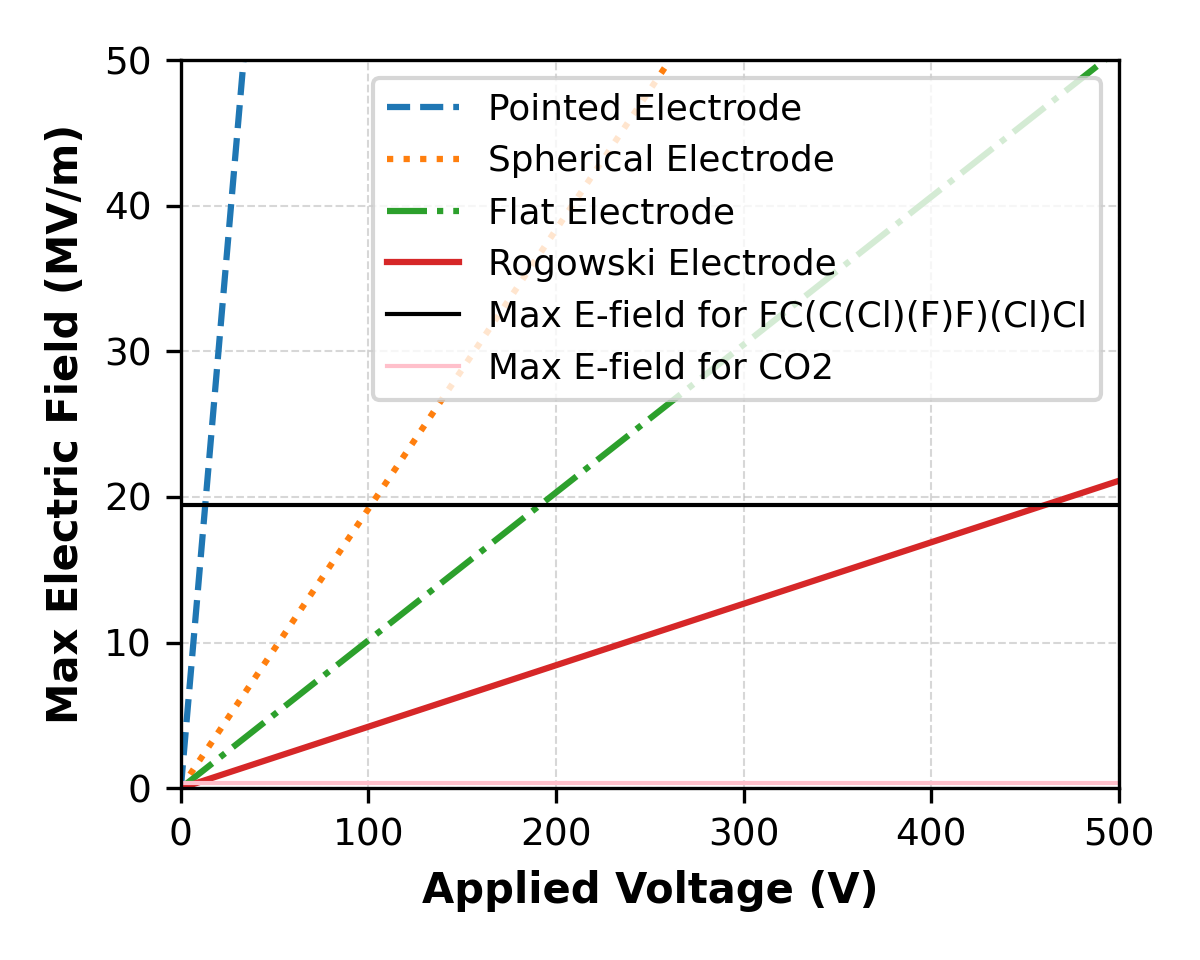
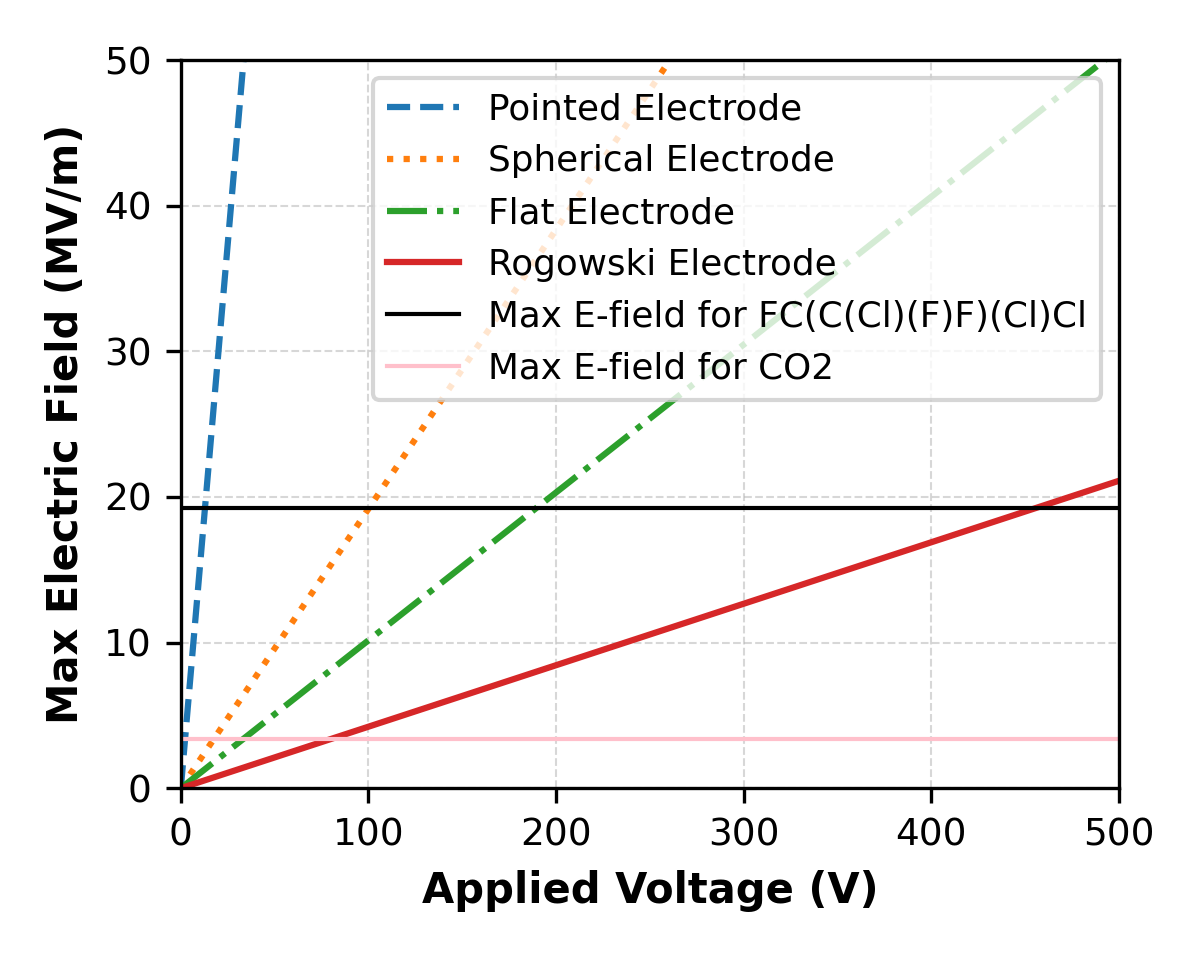
updated comsol plot

Changed region(s): [[0.1542, 0.8125, 0.925, 0.8438], [0.1542, 0.75, 0.925, 0.7812], [0.1542, 0.5, 0.925, 0.5312]]

diff --git a/src/combined_postprocessing.py b/src/combined_postprocessing.py
@@ -2,126 +2,126 @@ import pandas as pd
 import matplotlib.pyplot as plt
 import numpy as np
 
-# -----------------Evaluates the results of the RF and NN models -------------------------------------
-# Load both prediction files
-df_rf = pd.read_csv("./results/rf_test_rmse_per_loop_6_2.csv")
-df_nn = pd.read_csv("./results/nn_test_rmse_per_loop.csv")
+# # -----------------Evaluates the results of the RF and NN models -------------------------------------
+# # Load both prediction files
+# df_rf = pd.read_csv("./results/rf_test_rmse_per_loop_6_2.csv")
+# df_nn = pd.read_csv("./results/nn_test_rmse_per_loop.csv")
 
-# Find the minimum and maximum Test_RMSE for both models and the corresponding rows
-min_rf_test_rmse = np.min(df_rf["Test_RMSE"])
-min_nn_test_rmse = np.min(df_nn["Test_RMSE"])
-max_rf_test_rmse = np.max(df_rf["Test_RMSE"])
-max_nn_test_rmse = np.max(df_nn["Test_RMSE"])
+# # Find the minimum and maximum Test_RMSE for both models and the corresponding rows
+# min_rf_test_rmse = np.min(df_rf["Test_RMSE"])
+# min_nn_test_rmse = np.min(df_nn["Test_RMSE"])
+# max_rf_test_rmse = np.max(df_rf["Test_RMSE"])
+# max_nn_test_rmse = np.max(df_nn["Test_RMSE"])
 
-min_rf_rmse_row = df_rf.loc[df_rf["Test_RMSE"].idxmin()]
-min_nn_rmse_row = df_nn.loc[df_nn["Test_RMSE"].idxmin()]
-max_rf_rmse_row = df_rf.loc[df_rf["Test_RMSE"].idxmax()]
-max_nn_rmse_row = df_nn.loc[df_nn["Test_RMSE"].idxmax()]
+# min_rf_rmse_row = df_rf.loc[df_rf["Test_RMSE"].idxmin()]
+# min_nn_rmse_row = df_nn.loc[df_nn["Test_RMSE"].idxmin()]
+# max_rf_rmse_row = df_rf.loc[df_rf["Test_RMSE"].idxmax()]
+# max_nn_rmse_row = df_nn.loc[df_nn["Test_RMSE"].idxmax()]
 
-# Find the average Test_RMSE and R² for both models
-avg_rf_test_rmse = np.mean(df_rf["Test_RMSE"])
-avg_nn_test_rmse = np.mean(df_nn["Test_RMSE"])
-avg_rf_r2 = np.mean(df_rf["R2_Test"])
-avg_nn_r2 = np.mean(df_nn["R2_Train"])
+# # Find the average Test_RMSE and R² for both models
+# avg_rf_test_rmse = np.mean(df_rf["Test_RMSE"])
+# avg_nn_test_rmse = np.mean(df_nn["Test_RMSE"])
+# avg_rf_r2 = np.mean(df_rf["R2_Test"])
+# avg_nn_r2 = np.mean(df_nn["R2_Train"])
 
-median_rf_test_rmse = np.median(df_rf["Test_RMSE"])
-median_nn_test_rmse = np.median(df_nn["Test_RMSE"])
-median_rf_r2 = np.median(df_rf["R2_Test"])
-median_nn_r2 = np.median(df_nn["R2_Train"])
+# median_rf_test_rmse = np.median(df_rf["Test_RMSE"])
+# median_nn_test_rmse = np.median(df_nn["Test_RMSE"])
+# median_rf_r2 = np.median(df_rf["R2_Test"])
+# median_nn_r2 = np.median(df_nn["R2_Train"])
 
-avg_rf_test_rmse_std = np.std(df_rf["Test_RMSE"])
-avg_nn_test_rmse_std = np.std(df_nn["Test_RMSE"])
-#avg_rf_r2_std = np.std(df_rf["R2_Test"])
-#avg_nn_r2_std = np.std(df_nn["R2_Train"])
-avg_rf_r2_IQR = np.percentile(df_rf["R2_Test"], 75) - np.percentile(df_rf["R2_Test"], 25)
-avg_nn_r2_IQR = np.percentile(df_nn["R2_Train"], 75) - np.percentile(df_nn["R2_Train"], 25)
-
-
-print("\nRF min:\n", min_rf_rmse_row)
-print("\nRF max:\n", max_rf_rmse_row)
-print("\nNN min:\n", min_nn_rmse_row)
-print("\nNN max:\n", max_nn_rmse_row)
+# avg_rf_test_rmse_std = np.std(df_rf["Test_RMSE"])
+# avg_nn_test_rmse_std = np.std(df_nn["Test_RMSE"])
+# #avg_rf_r2_std = np.std(df_rf["R2_Test"])
+# #avg_nn_r2_std = np.std(df_nn["R2_Train"])
+# avg_rf_r2_IQR = np.percentile(df_rf["R2_Test"], 75) - np.percentile(df_rf["R2_Test"], 25)
+# avg_nn_r2_IQR = np.percentile(df_nn["R2_Train"], 75) - np.percentile(df_nn["R2_Train"], 25)
 
 
-# Find the model run whose test RMSE is closest to the mean (closest to the average performance)
-closest_rf_row = df_rf.loc[(df_rf["Test_RMSE"] - avg_rf_test_rmse).abs().idxmin()]
-closest_nn_row = df_nn.loc[(df_nn["Test_RMSE"] - avg_nn_test_rmse).abs().idxmin()]
-
-print("\nRF closest to average:\n", closest_rf_row)
-print("\nNN closest to average:\n", closest_nn_row)
-
-print("\nRF average Test_RMSE:", avg_rf_test_rmse, "±", avg_rf_test_rmse_std)
-print("NN average Test_RMSE:", avg_nn_test_rmse, "±", avg_nn_test_rmse_std)
-
-print("RF average R²:", avg_rf_r2)
-print("NN average R²:", avg_nn_r2)
-
-print("\nRF median Test_RMSE:", median_rf_test_rmse)
-print("NN median Test_RMSE:", median_nn_test_rmse)
-print("RF median R²:", median_rf_r2, "±", avg_rf_r2_IQR)
-print("NN median R²:", median_nn_r2, "±", avg_nn_r2_IQR)
+# print("\nRF min:\n", min_rf_rmse_row)
+# print("\nRF max:\n", max_rf_rmse_row)
+# print("\nNN min:\n", min_nn_rmse_row)
+# print("\nNN max:\n", max_nn_rmse_row)
 
 
+# # Find the model run whose test RMSE is closest to the mean (closest to the average performance)
+# closest_rf_row = df_rf.loc[(df_rf["Test_RMSE"] - avg_rf_test_rmse).abs().idxmin()]
+# closest_nn_row = df_nn.loc[(df_nn["Test_RMSE"] - avg_nn_test_rmse).abs().idxmin()]
 
-# # ------------------- Import, merge, and plot the predictions from both models -------------------------------------
-# # Load the prediction datasets
-# rf_test_pred = pd.read_csv("./results/rf_test_prediction_dataset.csv")
-# rf_tm_pred = pd.read_csv("./results/rf_tm_prediction_dataset.csv")
-# rf_train_pred = pd.read_csv("./results/rf_train_prediction_dataset.csv")
+# print("\nRF closest to average:\n", closest_rf_row)
+# print("\nNN closest to average:\n", closest_nn_row)
 
-# nn_test_pred = pd.read_csv("./results/nn_test_prediction_dataset.csv")
-# nn_tm_pred = pd.read_csv("./results/nn_tm_prediction_dataset.csv")
-# nn_train_pred = pd.read_csv("./results/nn_train_prediction_dataset.csv")
+# print("\nRF average Test_RMSE:", avg_rf_test_rmse, "±", avg_rf_test_rmse_std)
+# print("NN average Test_RMSE:", avg_nn_test_rmse, "±", avg_nn_test_rmse_std)
 
-# rf_total_pred = pd.concat([rf_train_pred, rf_test_pred, rf_tm_pred], ignore_index=True)
-# nn_total_pred = pd.concat([nn_train_pred, nn_test_pred, nn_tm_pred], ignore_index=True)
+# print("RF average R²:", avg_rf_r2)
+# print("NN average R²:", avg_nn_r2)
 
-# rf_total_pred = rf_total_pred[(rf_total_pred['Adiabatic IE'] <= 100) & (rf_total_pred['Cohesive Energy'].abs() <= 30000)] #Remove any molecules with Adiabatic IE > 100 and Cohesive Energy > 30000, which are likely outliers
-# nn_total_pred = nn_total_pred[(nn_total_pred['Adiabatic IE'] <= 100) & (nn_total_pred['Cohesive Energy'].abs() <= 30000)] #Remove any molecules with Adiabatic IE > 100 and Cohesive Energy > 30000, which are likely outliers
-
-# rf_total_pred = rf_total_pred.sort_values('Predicted Dielectric Strength', ascending=False).reset_index(drop=True)
-# rf_total_pred = rf_total_pred.reset_index(drop=True)
-# nn_total_pred = nn_total_pred.reset_index(drop=True)
-# rf_total_pred.to_csv("./results/rf_total_prediction_dataset.csv", index=True)
-# nn_total_pred.to_csv("./results/nn_total_prediction_dataset.csv", index=True)
-
-
-# #print(rf_total_pred[rf_total_pred['Adiabatic IE'] > 100][['Molecule', 'Adiabatic IE']]) #Check for any molecules with very high Adiabatic IE values that might be outliers
-
-
-# # rf_top5 = rf_total_pred.nlargest(5, 'Predicted Dielectric Strength')[['Molecule', 'Predicted Dielectric Strength']]
-# nn_top10 = nn_total_pred.nlargest(10, 'Predicted Dielectric Strength')[['Molecule', 'Predicted Dielectric Strength']]
-
-# # print("RF Top 5:")
-# # print(rf_top5.to_string(index=False))
-# print("\nNN Top 10:")
-# print(nn_top10.to_string(index=False))
-
-# # print("\n total predictions:", len(rf_total_pred))
+# print("\nRF median Test_RMSE:", median_rf_test_rmse)
+# print("NN median Test_RMSE:", median_nn_test_rmse)
+# print("RF median R²:", median_rf_r2, "±", avg_rf_r2_IQR)
+# print("NN median R²:", median_nn_r2, "±", avg_nn_r2_IQR)
 
 
 
-# molecule_order = rf_total_pred[['Molecule']].copy()
-# molecule_order['sort_order'] = range(len(molecule_order))
+# ------------------- Import, merge, and plot the predictions from both models -------------------------------------
+# Load the prediction datasets
+rf_test_pred = pd.read_csv("./results/rf_test_prediction_dataset.csv")
+rf_tm_pred = pd.read_csv("./results/rf_tm_prediction_dataset.csv")
+rf_train_pred = pd.read_csv("./results/rf_train_prediction_dataset.csv")
 
-# nn_total_pred = molecule_order.merge(nn_total_pred, on='Molecule').sort_values('sort_order').drop(columns='sort_order').reset_index(drop=True)
+nn_test_pred = pd.read_csv("./results/nn_test_prediction_dataset.csv")
+nn_tm_pred = pd.read_csv("./results/nn_tm_prediction_dataset.csv")
+nn_train_pred = pd.read_csv("./results/nn_train_prediction_dataset.csv")
 
-# #print(rf_total_pred[['Molecule', 'Predicted Dielectric Strength']].head(10).to_string(index=False))
-# #print(nn_total_pred[['Molecule', 'Predicted Dielectric Strength']].head(10).to_string(index=False))
+rf_total_pred = pd.concat([rf_train_pred, rf_test_pred, rf_tm_pred], ignore_index=True)
+nn_total_pred = pd.concat([nn_train_pred, nn_test_pred, nn_tm_pred], ignore_index=True)
 
-# print(rf_total_pred)
+rf_total_pred = rf_total_pred[(rf_total_pred['Adiabatic IE'] <= 100) & (rf_total_pred['Cohesive Energy'].abs() <= 30000)] #Remove any molecules with Adiabatic IE > 100 and Cohesive Energy > 30000, which are likely outliers
+nn_total_pred = nn_total_pred[(nn_total_pred['Adiabatic IE'] <= 100) & (nn_total_pred['Cohesive Energy'].abs() <= 30000)] #Remove any molecules with Adiabatic IE > 100 and Cohesive Energy > 30000, which are likely outliers
 
-# fig, ax = plt.subplots(figsize=(4, 3.5))
+rf_total_pred = rf_total_pred.sort_values('Predicted Dielectric Strength', ascending=False).reset_index(drop=True)
+rf_total_pred = rf_total_pred.reset_index(drop=True)
+nn_total_pred = nn_total_pred.reset_index(drop=True)
+rf_total_pred.to_csv("./results/rf_total_prediction_dataset.csv", index=True)
+nn_total_pred.to_csv("./results/nn_total_prediction_dataset.csv", index=True)
 
-# ax.scatter(rf_total_pred.index, rf_total_pred['Predicted Dielectric Strength'], color='steelblue', s=10, label='RF-Predicted Values')
-# ax.scatter(nn_total_pred.index, nn_total_pred['Predicted Dielectric Strength'], marker='d', color='orange', s=10, label='NN-Predicted Values')
 
-# ax.set_xlabel('Molecule Index', fontweight='bold')
-# ax.set_ylabel('Predicted Relative DS', fontweight='bold')
-# ax.grid(True, linestyle='--', alpha=0.5)
-# ax.legend()
-# plt.tight_layout()
-# plt.savefig('./images/rf_nn_combined_predictions.png', dpi=300)
+#print(rf_total_pred[rf_total_pred['Adiabatic IE'] > 100][['Molecule', 'Adiabatic IE']]) #Check for any molecules with very high Adiabatic IE values that might be outliers
+
+
+# rf_top5 = rf_total_pred.nlargest(5, 'Predicted Dielectric Strength')[['Molecule', 'Predicted Dielectric Strength']]
+nn_top10 = nn_total_pred.nlargest(10, 'Predicted Dielectric Strength')[['Molecule', 'Predicted Dielectric Strength']]
+
+# print("RF Top 5:")
+# print(rf_top5.to_string(index=False))
+print("\nNN Top 10:")
+print(nn_top10.to_string(index=False))
+
+# print("\n total predictions:", len(rf_total_pred))
+
+
+
+molecule_order = rf_total_pred[['Molecule']].copy()
+molecule_order['sort_order'] = range(len(molecule_order))
+
+nn_total_pred = molecule_order.merge(nn_total_pred, on='Molecule').sort_values('sort_order').drop(columns='sort_order').reset_index(drop=True)
+
+#print(rf_total_pred[['Molecule', 'Predicted Dielectric Strength']].head(10).to_string(index=False))
+#print(nn_total_pred[['Molecule', 'Predicted Dielectric Strength']].head(10).to_string(index=False))
+
+print(rf_total_pred)
+
+fig, ax = plt.subplots(figsize=(4, 3.5))
+
+ax.scatter(rf_total_pred.index, rf_total_pred['Predicted Dielectric Strength'], color='steelblue', s=10, label='RF-Predicted Values')
+ax.scatter(nn_total_pred.index, nn_total_pred['Predicted Dielectric Strength'], marker='x', color='orange', s=8, label='NN-Predicted Values')
+
+ax.set_xlabel('Molecule Index', fontweight='bold')
+ax.set_ylabel('Predicted Relative DS', fontweight='bold')
+ax.grid(True, linestyle='--', alpha=0.5)
+ax.legend()
+plt.tight_layout()
+plt.savefig('./images/rf_nn_combined_predictions.png', dpi=300)
 
 
 

diff --git a/src/comsol_plot.py b/src/comsol_plot.py
@@ -40,13 +40,13 @@ ax.plot(v_array, flat_E, label='Flat Electrode', linestyle='-.')
 ax.plot(v_array, rog_E, label='Rogowski Electrode', linestyle='-')
 ax.grid(True, alpha=0.5, linestyle='--', linewidth=0.5)
 ax.tick_params(axis='both', labelsize=9)
-ax.axhline(y=19.44, color='k', linestyle='-', linewidth=1, label='Max E-field for FC(C(Cl)(F)F)(Cl)Cl')
-ax.axhline(y=0.379, color='pink', linestyle='-', linewidth=1, label='Max E-field for CO2')
+ax.axhline(y=2.16*8.9, color='k', linestyle='-', linewidth=1, label='Max E-field for FC(C(Cl)(F)F)(Cl)Cl')
+ax.axhline(y=0.3793530079454656*8.9, color='pink', linestyle='-', linewidth=1, label='Max E-field for CO2')
 ax.set_xlabel('Applied Voltage (V)', fontweight='bold')
 ax.set_ylabel('Max Electric Field (MV/m)', fontweight='bold')
-ax.set_ylim(0, 50)
+ax.set_ylim(0, 21)
 ax.set_xlim(0, 500)
 #ax.set_yscale('log')
-ax.legend(fontsize=8.6)
+#ax.legend(fontsize=8.6)
 plt.tight_layout()
-plt.savefig('./images/comsol_electric_field.png', dpi=300)
+plt.savefig('./images/comsol_electric_field_zoomed.png', dpi=300)
